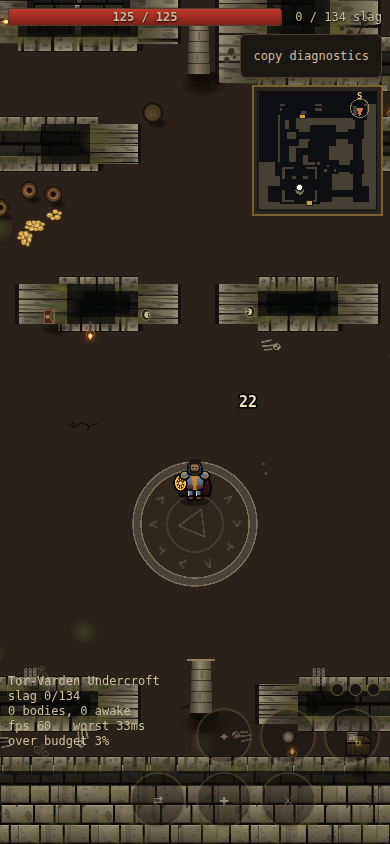
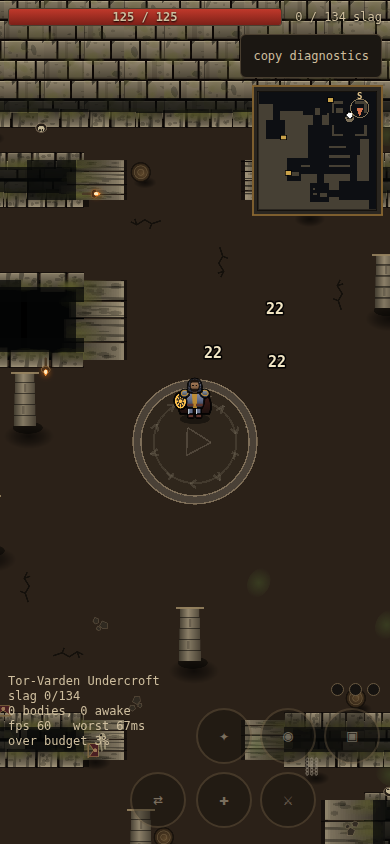
Keep the damage numbers when the frame governor sheds the mood
floatDmg and floatWord both bailed on lowFx, so a struggling device lost every
damage number along with the fog. That was invisible for as long as nothing
set the flag -- which, until the Phaser build got a working frame governor,
nothing did. The first thing the governor did on a slow box was take the
numbers off the screen, on exactly the device that needed them most.

A number is information, not decoration. The whole ranked-floater hierarchy
exists so a scratch reads differently from a heavy landing, and a phone short
of frames is not a reason to stop telling the player what their hits did. It
buys almost nothing either: floaters are capped at 22, merged on the way in,
and pooled Text objects in the Phaser build. The mood goes under lowFx; the
readout stays. Same argument that keeps the light pass.

Changed in index.html and the core regenerated, so both builds agree.

Also: the build now copies src/core/core.js to public/core.js. The extractor
writes the first and the page loads the second, and nothing joined them -- it
was a hand copy. A forgotten hand copy leaves the game running the PREVIOUS
core with no sign of it, which is the stale-bundle hazard again and worse: a
stale bundle is stale presentation, a stale core is stale rules. Found by this
very change, whose regenerated core did not reach the page. Every suite builds
first, so every suite now picks up a regenerated core.

New check in smoke-fx, revert-proved: restoring either bail drops the count.
[…]

diff --git a/index.html b/index.html
@@ -5360,9 +5360,22 @@ function startGCD(mul) {
   player.gcdMax = player.gcd;
 }
 
-// A word where a number would go. Same lane, same easing, no arithmetic.
+/* A word where a number would go. Same lane, same easing, no arithmetic.
+ *
+ * NOT shed under lowFx, and neither is floatDmg below. Both used to bail on
+ * it, and that was only ever invisible because nothing set the flag on a
+ * desktop -- the Phaser build's frame governor sets it for real, and the first
+ * thing it did was take every damage number off the screen on exactly the
+ * device that needed them most.
+ *
+ * A number is information. The whole of the ranked-floater hierarchy exists so
+ * a player can tell a scratch from a heavy landing at a glance, and a phone
+ * struggling for frames is not a reason to stop telling them what their hits
+ * did. It costs nothing worth having either: floaters are capped at 22, merged
+ * on the way in, and pooled Text objects in the Phaser build. The mood goes
+ * under lowFx; the readout stays.
+ */
 function floatWord(x, y, word, kind) {
-  if (lowFx) return;
   for (let i = 0; i < floaters.length; i++) {
     const f = floaters[i];
     // One at a time off one body: a tethered swing every frame would stack
@@ -5376,7 +5389,6 @@ function floatWord(x, y, word, kind) {
 }
 
 function floatDmg(x, y, amount, kind) {
-  if (lowFx) return;
   const n = Math.max(1, Math.round(amount));
   // Merge into a number already climbing off the same spot.
   for (let i = 0; i < floaters.length; i++) {

diff --git a/phaser/public/core.js b/phaser/public/core.js
@@ -3526,9 +3526,22 @@ function startGCD(mul) {
   player.gcdMax = player.gcd;
 }
 
-// A word where a number would go. Same lane, same easing, no arithmetic.
+/* A word where a number would go. Same lane, same easing, no arithmetic.
+ *
+ * NOT shed under lowFx, and neither is floatDmg below. Both used to bail on
+ * it, and that was only ever invisible because nothing set the flag on a
+ * desktop -- the Phaser build's frame governor sets it for real, and the first
+ * thing it did was take every damage number off the screen on exactly the
+ * device that needed them most.
+ *
+ * A number is information. The whole of the ranked-floater hierarchy exists so
+ * a player can tell a scratch from a heavy landing at a glance, and a phone
+ * struggling for frames is not a reason to stop telling them what their hits
+ * did. It costs nothing worth having either: floaters are capped at 22, merged
+ * on the way in, and pooled Text objects in the Phaser build. The mood goes
+ * under lowFx; the readout stays.
+ */
 function floatWord(x, y, word, kind) {
-  if (lowFx) return;
   for (let i = 0; i < floaters.length; i++) {
     const f = floaters[i];
     // One at a time off one body: a tethered swing every frame would stack
@@ -3542,7 +3555,6 @@ function floatWord(x, y, word, kind) {
 }
 
 function floatDmg(x, y, amount, kind) {
-  if (lowFx) return;
   const n = Math.max(1, Math.round(amount));
   // Merge into a number already climbing off the same spot.
   for (let i = 0; i < floaters.length; i++) {

diff --git a/phaser/src/core/core.js b/phaser/src/core/core.js
@@ -3526,9 +3526,22 @@ function startGCD(mul) {
   player.gcdMax = player.gcd;
 }
 
-// A word where a number would go. Same lane, same easing, no arithmetic.
+/* A word where a number would go. Same lane, same easing, no arithmetic.
+ *
+ * NOT shed under lowFx, and neither is floatDmg below. Both used to bail on
+ * it, and that was only ever invisible because nothing set the flag on a
+ * desktop -- the Phaser build's frame governor sets it for real, and the first
+ * thing it did was take every damage number off the screen on exactly the
+ * device that needed them most.
+ *
+ * A number is information. The whole of the ranked-floater hierarchy exists so
+ * a player can tell a scratch from a heavy landing at a glance, and a phone
+ * struggling for frames is not a reason to stop telling them what their hits
+ * did. It costs nothing worth having either: floaters are capped at 22, merged
+ * on the way in, and pooled Text objects in the Phaser build. The mood goes
+ * under lowFx; the readout stays.
+ */
 function floatWord(x, y, word, kind) {
-  if (lowFx) return;
   for (let i = 0; i < floaters.length; i++) {
     const f = floaters[i];
     // One at a time off one body: a tethered swing every frame would stack
@@ -3542,7 +3555,6 @@ function floatWord(x, y, word, kind) {
 }
 
 function floatDmg(x, y, amount, kind) {
-  if (lowFx) return;
   const n = Math.max(1, Math.round(amount));
   // Merge into a number already climbing off the same spot.
   for (let i = 0; i < floaters.length; i++) {

diff --git a/phaser/tools/build.js b/phaser/tools/build.js
@@ -4,11 +4,31 @@
    desktop and under Termux on the phone. `--watch` rebuilds on save.
 */
 import esbuild from 'esbuild';
+import fs from 'node:fs';
 import path from 'node:path';
 import { fileURLToPath } from 'node:url';
 
 const here = path.dirname(fileURLToPath(import.meta.url));
 const watch = process.argv.includes('--watch');
+
+/* The extracted core, into the directory the page actually serves.
+ *
+ * extract-core.js writes src/core/core.js; index.html loads public/core.js.
+ * Nothing joined the two, so it was a hand copy -- and a hand copy that is
+ * forgotten leaves the game running the PREVIOUS core with no sign of it.
+ * That is the same hazard the suites had with a stale bundle, and it is worse
+ * here: a stale bundle is stale presentation, a stale core is stale rules.
+ * Copied on every build, and the suites all build first.
+ */
+const core = path.join(here, '..', 'src', 'core', 'core.js');
+const served = path.join(here, '..', 'public', 'core.js');
+if (fs.existsSync(core)) {
+  const from = fs.readFileSync(core);
+  if (!fs.existsSync(served) || !fs.readFileSync(served).equals(from)) {
+    fs.writeFileSync(served, from);
+    console.log('core.js -> public/ (' + (from.length / 1024 | 0) + 'kB)');
+  }
+}
 
 const opts = {
   entryPoints: [path.join(here, '..', 'src', 'main.js')],

diff --git a/phaser/README.md b/phaser/README.md
@@ -60,12 +60,21 @@ the hero, the kit casts, the HUD reads the run.
 | `npm run smoke:overlay` | 22 checks — the map, the arrow out, the boss bar, the crystal |
 | `npm run smoke:air` | 18 checks — light, haze, ash, the dark, and the governor |
 | `npm run smoke:play` | 16 checks — the stick, the kit, and the HUD's layout |
-| `npm run smoke:fx` | 15 checks — the fight reads, the crescent and the tells in pixels |
+| `npm run smoke:fx` | 16 checks — the fight reads, the crescent and the tells in pixels |
 | `npm run smoke:loop` | 15 checks — dying, the outcome, the gate-house, descending again |
 | `npm run smoke:forge` | 13 checks — equipping, and that worn gear reaches the hero |
 | `npm run smoke:spend` | 13 checks — the vendor and the hall, and that coin buys what it says |
 | `npm run smoke` | 13 checks — the proving scene and the diagnostics dump |
 | `npm run verify` | the canvas suites against the extracted core |
+
+One thing never sheds, and the numbers are the second: `floatDmg` and
+`floatWord` used to bail on `lowFx` too, which was invisible for as long as
+nothing set the flag. The governor sets it for real, and the first thing it did
+was take every damage number off the screen on exactly the device that needed
+them most. A number is information — the whole ranked-floater hierarchy exists
+so a scratch reads differently from a heavy landing — and it costs nothing
+worth having: floaters are capped at 22, merged on the way in, and pooled Text
+objects here.
 
 Each suite builds `public/bundle.js` before it serves it. That is not a
 convenience. The suites serve a build artefact, nothing rebuilt it, and so for
@@ -74,6 +83,11 @@ It surfaced when a deliberate stub — a `return` at the top of the culling pass
 put there to prove the culling assertions could fail — changed nothing at all:
 the browser never saw the edit. A test that cannot see your change cannot fail
 on it, and a suite that green-lights a stub is worse than no suite.
+
+The build also copies `src/core/core.js` to `public/core.js`, which the page
+actually loads. That was a hand copy, and a hand copy that is forgotten leaves
+the game running the previous core with nothing to say so — the same hazard,
+and worse: a stale bundle is stale presentation, a stale core is stale rules.
 
 The HUD is DOM over the canvas, as it is in the canvas build: text stays crisp
 at any dpr without a font atlas, a button is a real 44px touch target, and none
